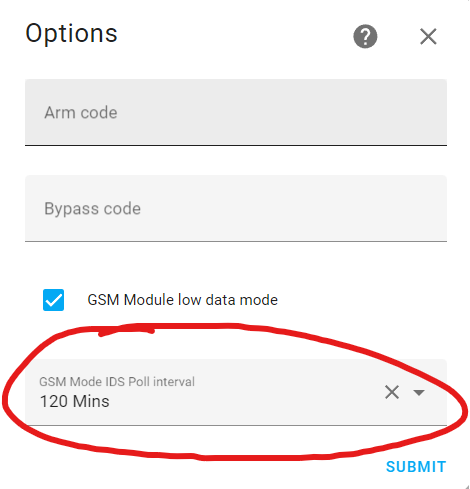
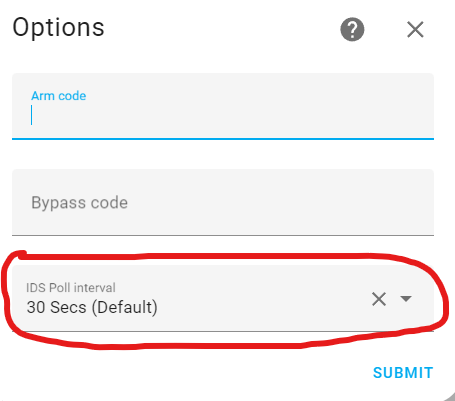
Adding polling time dropdown

diff --git a/custom_components/ids_hyyp/config_flow.py b/custom_components/ids_hyyp/config_flow.py
@@ -1,4 +1,4 @@
-"""Config flow for ezviz."""
+"""Config flow."""
 from __future__ import annotations
 
 import logging
@@ -26,7 +26,9 @@ from .const import (
     PKG_ADT_ALIAS,
     PGK_IDS_HYYP_ALIAS,
     FCM_CREDENTIALS,
-    GSM_MODE,
+    POLLING_TIME,
+    DEFAULT_POLL_TIME,
+    POLLING_TIME_NEVER_POLL,
     IMEI
 )
 
@@ -124,8 +126,8 @@ class HyypConfigFlow(ConfigFlow, domain=DOMAIN):
                             "value" : PKG_IDS_HYYP      
                         },              
                         ],
-                }
-            }),
+                        }
+                }),
          
         }
                 
@@ -158,10 +160,33 @@ class HyypOptionsFlowHandler(OptionsFlow):
         options = vol.Schema(
             {
                 vol.Optional(ATTR_ARM_CODE): str,
-                vol.Optional(ATTR_BYPASS_CODE): str,
+                vol.Optional(ATTR_BYPASS_CODE): str,                   
                 vol.Optional(
-                    GSM_MODE, 
-                    default=self.options.get(GSM_MODE, False)): bool,                
+                    POLLING_TIME, 
+                    default=self.options.get(POLLING_TIME, DEFAULT_POLL_TIME)
+                    ): 
+                        selector({
+                            "select": {
+                                "options": [
+                                    {
+                                        "label" : "30 Secs (Default)",
+                                        "value" : DEFAULT_POLL_TIME
+                                        
+                                    },       
+                                    {
+                                        "label" : "120 Mins",
+                                        "value" : "7200"    
+                                    },   
+                                    {
+                                        "label" : "Never*",
+                                        "value" : POLLING_TIME_NEVER_POLL
+                                        
+                                    },               
+                                    ],
+                                "mode": "dropdown",
+                                    }
+                        }),
+        
             }
         )
         

diff --git a/custom_components/ids_hyyp/coordinator.py b/custom_components/ids_hyyp/coordinator.py
@@ -1,4 +1,4 @@
-"""Provides the ezviz DataUpdateCoordinator."""
+"""Provides the DataUpdateCoordinator."""
 from datetime import timedelta
 import logging
 from typing import Any
@@ -14,11 +14,7 @@ from homeassistant.helpers.update_coordinator import DataUpdateCoordinator, Upda
 
 from .const import DOMAIN
 
-
-#arm_code = entry.options.get(ATTR_ARM_CODE)
-
 _LOGGER = logging.getLogger(__name__)
-
 
 class HyypDataUpdateCoordinator(DataUpdateCoordinator):
     """Class to manage fetching IDSHyyp data."""
@@ -29,6 +25,8 @@ class HyypDataUpdateCoordinator(DataUpdateCoordinator):
         """Initialize global IDS Hyyp data updater."""
         self.hyyp_client = api
         self._api_timeout = api_timeout
+        _LOGGER.warning("^^^^^^ GSM Mode Test Update Time")
+        _LOGGER.warning(update_time)
         update_interval = timedelta(seconds=update_time)
         self.push_notification_entity_callback_methods = []
         
@@ -39,7 +37,6 @@ class HyypDataUpdateCoordinator(DataUpdateCoordinator):
     async def _async_update_data(self) -> dict[Any, Any]:
         """Fetch data from IDS Hyyp."""
  
-
         try:
             async with timeout(self._api_timeout):
                 return await self.hass.async_add_executor_job(

diff --git a/custom_components/ids_hyyp/__init__.py b/custom_components/ids_hyyp/__init__.py
@@ -18,8 +18,7 @@ from .const import (
     DEFAULT_TIMEOUT,
     DOMAIN,
     FCM_CREDENTIALS,
-    GSM_MODE,
-    GSM_MODE_POLL_TIME,
+    POLLING_TIME,
     DEFAULT_POLL_TIME,   
     IMEI,
 )
@@ -55,10 +54,12 @@ async def async_setup_entry(hass: HomeAssistant, entry: ConfigEntry) -> bool:
                              imei=entry.data[IMEI],
                              )
     
-    if entry.options.get(GSM_MODE):
-        update_time = GSM_MODE_POLL_TIME
-    else:
-        update_time = DEFAULT_POLL_TIME
+
+    if entry.options.get(POLLING_TIME) is None:
+        update_time = int(DEFAULT_POLL_TIME)
+    else: 
+        update_time = int(entry.options.get(POLLING_TIME))
+
         
     
     coordinator = HyypDataUpdateCoordinator(

diff --git a/custom_components/ids_hyyp/const.py b/custom_components/ids_hyyp/const.py
@@ -7,7 +7,7 @@ MODEL = "Hyyp"
 # Configuration
 CONF_PKG = "pkg"
 USER_ID = "userId"
-GSM_MODE = "gsm"
+POLLING_TIME = "polling_time"
 FCM_CREDENTIALS = "fcm_credentials"
 IMEI = "imei"
 
@@ -22,8 +22,12 @@ PKG_ADT_ALIAS = "ADT Securehome"
 
 # Defaults
 DEFAULT_TIMEOUT = 25
-GSM_MODE_POLL_TIME = 30*60 #30 Minutes
-DEFAULT_POLL_TIME = 30
+DEFAULT_POLL_TIME = "30"
+
+
+#GSM Mode
+POLLING_TIME_NEVER_POLL = str(86400) #1 day in seconds
+
 
 # Data
 DATA_COORDINATOR = "coordinator"

diff --git a/custom_components/ids_hyyp/alarm_control_panel.py b/custom_components/ids_hyyp/alarm_control_panel.py
@@ -27,7 +27,7 @@ PARALLEL_UPDATES = 1
 async def async_setup_entry(
     hass: HomeAssistant, entry: ConfigEntry, async_add_entities: AddEntitiesCallback
 ) -> None:
-    """Set up Ezviz alarm control panel."""
+    """Set up alarm control panel."""
     coordinator: HyypDataUpdateCoordinator = hass.data[DOMAIN][entry.entry_id][
         DATA_COORDINATOR
     ]

diff --git a/README.md b/README.md
@@ -23,14 +23,14 @@ IDS Hyyp integration for Home Assistant
 - Supports "Cell phone" type push notifications from IDS. These are the same as the notifications that you'd normally receive on your cellphone with the HYYP App.
     - Push notification summary is shown in `sensor.[site]_ids_push_notifications`.
     - You can for example add a push notification automation to get "instant" notifications similar to the IDS app.
-
 - "Low Data Mode"
-    - For use with "GSM Modules", polling is done once every 30 minutes.
-        - The IDS GSM Modules have a monthly limit of 50MB.
-        - Enabled by checking the relevant box at "Configure" option of integration.
+    - For use with "GSM Modules"
+        *The IDS GSM Modules seem to have a monthly limit of 50MB and a daily limit.*
+        - Polling interval can be adjusted to once every 120 minutes or "Never" - User selects at "Configure"
         - Immediate updates are still done when any action (Arm, disarm, bypass, etc.) is performed
             - Refresh button can also be used for immediate update.
 - Refresh button which forces an update from IDS.
+    - `button.[site_name]_refresh_button` queues an immediate update from the IDS servers.
 
 - Supports multiple sites and multiple partitions which are linked to your IDS Hyyp account.
 - Supports the "Alarm Control Panel" entity which is part of home assistant
@@ -38,28 +38,25 @@ IDS Hyyp integration for Home Assistant
     - Creates a `switch.[zone_name]` switch entity which can be used to toggle zone on/off (bypass).
         - `TRUE` / `ON` : Zone is ON i.e. not bypassed
         - `FALSE` / `OFF` : Zone is OFF i.e. bypassed (This will also show off when armed if the zone is bypassed as part of a stay profile)
-    - `switch.[zone_name]` has several attributes which gives further information regarding the zone
-    
-        *Note that due to the polling time to the IDS server this currently only updates once every 30 seconds since the IDS servers don't have any push implementation. These sensor attributes may therefore be up to 30 seconds "late" or "missed".*
 
-
-        *For "Low Data mode" updates are once every 15 minutes*
-        - `violated` - Will show `True` when a zone is violated for example if a door is open. (Alarm need not be armed)
-            
-            *The `violated` attribute may be "missed" if for example an unarmed violation occurs on a PIR in-between polls. The "violation" is never shared or polled by the IDS server.*
+    - `switch.[zone_name]` has several attributes which gives further information regarding the zone.<br>
+    *Note that due to the polling time to the IDS server this currently only updates once every 30 seconds since the IDS servers don't have any push implementation. These sensor attributes may therefore be up to 30 seconds "late" or "missed".* *For "GSM Module Low Data mode" updates are once every 30 minutes*
+        - `violated` - Will show `True` when a zone is violated for example if a door is open. (Alarm need not be armed)     
+            - *The `violated` attribute may be "missed" if for example an unarmed violation occurs on a PIR in-between polls. The "violation" is never shared or polled by the IDS server.*
         - `tampered` - Will show `True` when a zone is in tampered state (Not yet verified, implemented directly from IDS server feedback)
         - `stay_bypassed` - Will show `True` if a zone is bypassed due to a stay profile being active.
         - `triggered` - Will show `True` when the zone is triggered during armed state i.e. which zone triggered the alarm.
             - The `triggered` attribute normally `False`.
             - If the alarm triggers, this attribute will turn `True` on the zone that has triggered the alarm.  
-            - The sensor will remain `True` for 1 to 2 update cycles (depending on poll timing) and then go back to `False`
-            
-            *You should handle any home assistant triggers with automations*
-            
-            *Note multiple sensors can trigger the alarm at the same time if it's armed*
+            - The sensor will remain `True` for 1 to 2 update cycles (depending on poll timing) and then go back to `False`    
+            - *You should handle any home assistant triggers with automations* 
+            - *Note multiple sensors can trigger the alarm at the same time if it's armed*
+
+    
+
+
             
   
-
 - Multiple stay profiles.  
     *Note that the Home Assistant built in "Alarm Control Panel" entity does not support this natively so you will have to create buttons / entity cards etc. to use this feature*
     - Creates a `button.[site_name]_[partition_name]_[stay_profile_name]` button entity which can be used to arm a specific stay profile. You can also switch between stay profiles while armed in a stay profile.
@@ -138,8 +135,10 @@ HACS Method is recommended. If you know how to use SSH or another uploading meth
 (https://github.com/hawky358/hass_ids_hyyp)
 
 ## Disclaimer
-Disclaimer: I am not a programmer/developer/coder/etc. I created this fork since I want to continue using this integration. It was broken for me (2023.4), so I fixed it and thought I'd share it so other people can also continue using it.
+- I am not a programmer/developer/coder/etc. I created this fork since I want to continue using this integration. It was broken for me (2023.4), so I fixed it and thought I'd share it so other people can also continue using it.
 Support, updates, bugfixes, features, etc. will be limited, but I will help where possible and will share anything I develop
+- This integration is in no way affiliated with IDS. 
+    - IDS will not be able to assist with any troubleshooting.
 
 ##
 
@@ -149,9 +148,20 @@ Support, updates, bugfixes, features, etc. will be limited, but I will help wher
 ---
 # Changelog:
 
+**Version 1.7.0 beta 2**
+- Changed the GSM mode from a tickbox to a selectable poll time.
+- Added a "Never" option to the "GSM Module low data mode" which doesn't poll the IDS servers based on time. (Currently ~once a day)
+    - Only the refresh button, and actions such as arm, disarm, bypass will poll the IDS server.
+- Based on feedback added an automatic polling time of 120mins.
+- These options can be selected in the "Configure" section of the integration.
+
+    ![alt text](images/gsmmode_poll.png)
+
+- Cleanup of readme and HACS configuration files.
+
 **Version 1.7.0 beta 1**
-- Implemented "GSM Module low data mode" which only polls the IDS servers every 15 minutes.
-    - The GSM Module low data mode can be selected at "Configure" of the intergration.
+- Implemented "GSM Module low data mode" which only polls the IDS servers every 30 minutes.
+    - The GSM Module low data mode can be selected at "Configure" of the integration.
 
     ![Alt text](images/gsmmode.png)
 
@@ -164,7 +174,7 @@ Support, updates, bugfixes, features, etc. will be limited, but I will help wher
 - Removed timeout configuration option
 
 **Version 1.6.1**
-- Fixed an issue where alarm panels required entry of code even when configured. (Home Assistant 2024.6.0 introduced a new change requiring alarm panels to enter a code when arming or to save it in the partition entity).  You may need to restart home assistant after configuring your Arm and bypass codes.
+- Fixed an issue where alarm panels required entry of code even when configured. (Home Assistant 2024.6.1 introduced a new change requiring alarm panels to enter a code when arming, or to save it in the partition entity).  You may need to restart home assistant after configuring your Arm and bypass codes.
 
 **Version 1.6.0**
 - Removed `binary_sensor.[zone_name]_trigger` entity per deprecation notice. This information remains available within the `triggered` attribute in `switch.[zone_name]`
@@ -202,7 +212,7 @@ Support, updates, bugfixes, features, etc. will be limited, but I will help wher
 
 - If you are upgrading from  1.3.x or earlier then you **MUST** re-add the integration to load the new configuration settings.
 - **`binary_sensor.[zone_name]_trigger` will be removed soon, please update necessary code per below.**
-- IDS servers now provide additional zone information which have been added to the integration. This information is shown as an attributed within the zone switch.
+- IDS servers now provide additional zone information which have been added to the integration. This information is shown as an attribute within the zone switch.
     - The `switch.[zone_name]` will now have the following attributes 
         - `violated` - Will show `True` when a zone is violated for example if a door is open. (Alarm need not be armed)
         - `tampered` - Will show `True` when a zone is in tampered state (Not yet verified, by implemented directly from IDS feedback)
